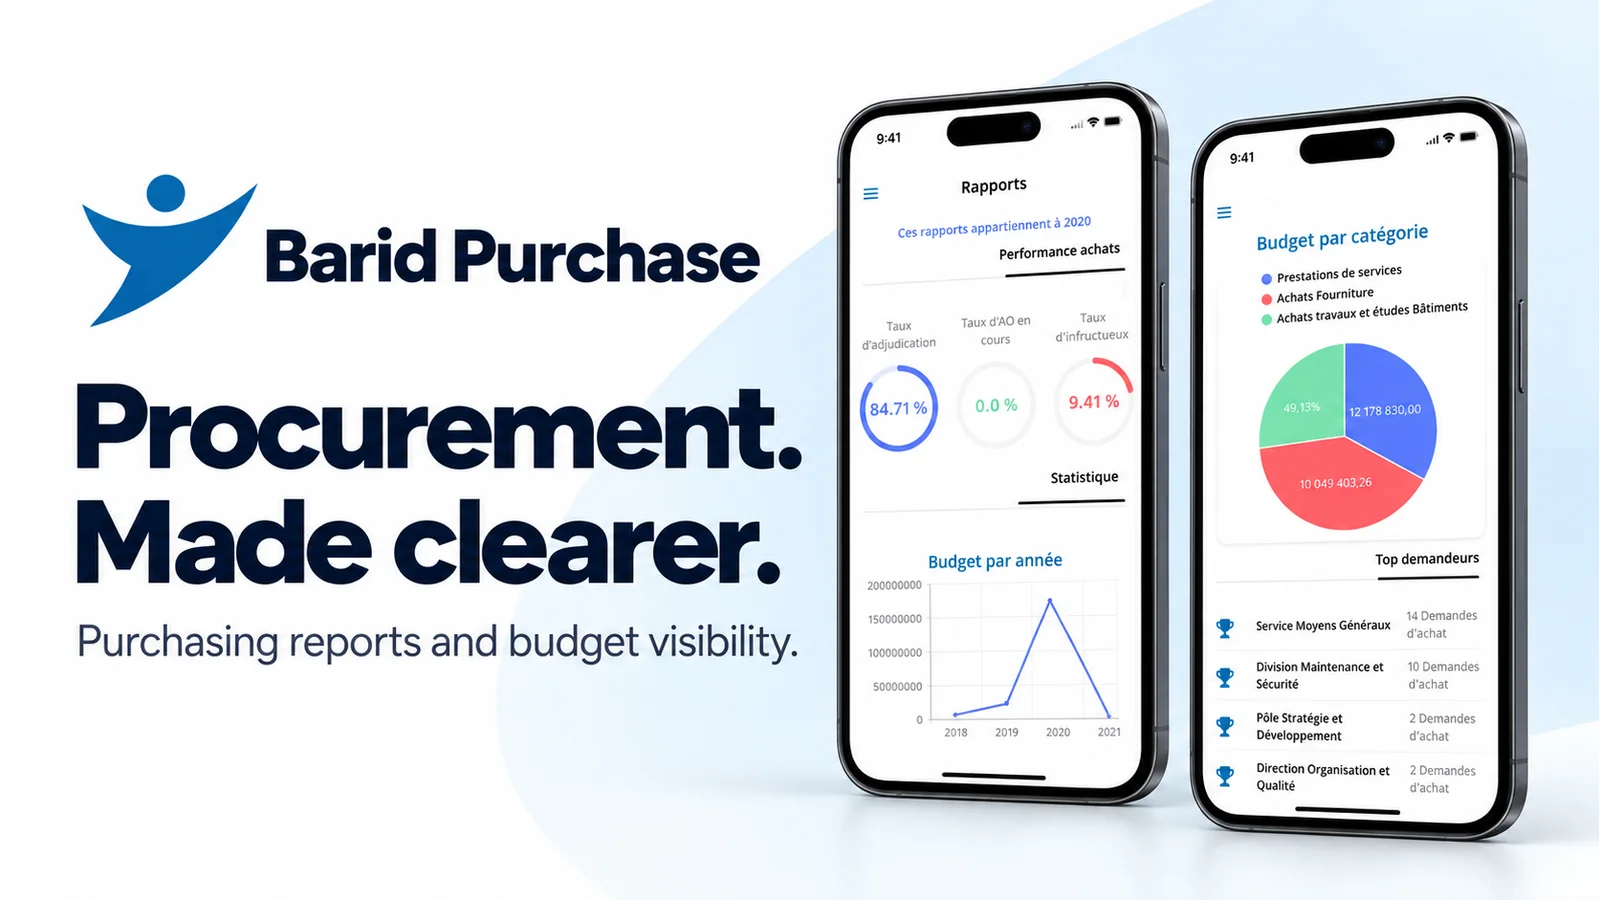
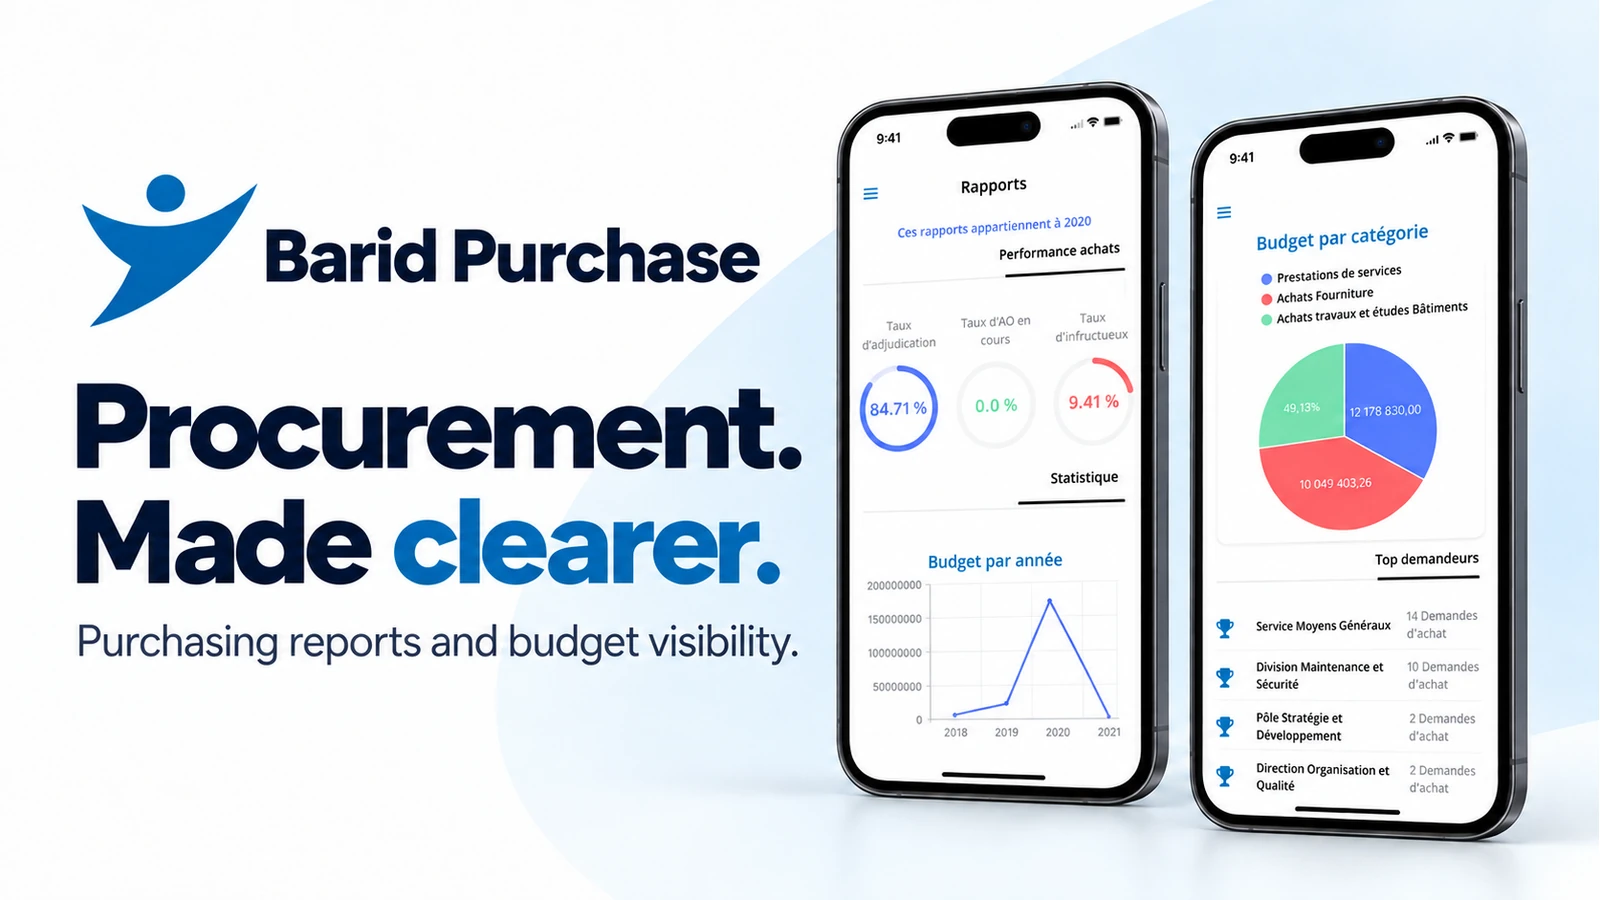
Add project availability and branded thumbnail accents

diff --git a/src/data/projects.ts b/src/data/projects.ts
@@ -12,10 +12,19 @@ import pennyflow from '../assets/thumbnails/pennyflow-thumbnail.webp';
 import isophro from '../assets/thumbnails/isophro-thumbnail.webp';
 import baridPurchase from '../assets/thumbnails/barid-purchase-thumbnail.webp';
 
+export type ProjectStatus = 'active' | 'discontinued';
+
+const activeFirst = <T extends { status: ProjectStatus }>(items: T[]): T[] =>
+  items.toSorted(
+    (a, b) =>
+      Number(a.status === 'discontinued') - Number(b.status === 'discontinued'),
+  );
+
 export interface Project {
   slug: string;
   name: string;
   category: 'client' | 'own';
+  status: ProjectStatus;
   image: ImageMetadata;
   imageAlt?: Localized<string>;
   visual: 'montage' | 'screen' | 'thumbnail';
@@ -31,10 +40,11 @@ export interface Project {
   }>;
 }
 
-export const projects: Project[] = [
+export const projects = activeFirst<Project>([
   {
     slug: '433-football',
     name: '433 Football',
+    status: 'active',
     category: 'client',
     image: football,
     imageAlt: {
@@ -100,6 +110,7 @@ export const projects: Project[] = [
   {
     slug: 'ignite-tournaments',
     name: 'Ignite Tournaments',
+    status: 'active',
     category: 'client',
     image: ignite,
     imageAlt: {
@@ -156,6 +167,7 @@ export const projects: Project[] = [
   {
     slug: 'receipto',
     name: 'Receipto',
+    status: 'active',
     category: 'own',
     image: receipto,
     imageAlt: {
@@ -212,6 +224,7 @@ export const projects: Project[] = [
   {
     slug: 'fielduro',
     name: 'Fielduro',
+    status: 'active',
     category: 'own',
     image: fielduro,
     imageAlt: {
@@ -268,6 +281,7 @@ export const projects: Project[] = [
   {
     slug: 'flura',
     name: 'Flura',
+    status: 'active',
     category: 'own',
     image: flura,
     imageAlt: {
@@ -324,6 +338,7 @@ export const projects: Project[] = [
   {
     slug: 'finflo',
     name: 'FinFlo',
+    status: 'active',
     category: 'own',
     image: finflo,
     imageAlt: {
@@ -377,11 +392,21 @@ export const projects: Project[] = [
       },
     },
   },
-];
+]);
 
-export const earlierWork = [
+interface EarlierProject {
+  name: string;
+  status: ProjectStatus;
+  tags: string;
+  image: ImageMetadata;
+  imageAlt: Localized<string>;
+  summary: Localized<string>;
+}
+
+export const earlierWork = activeFirst<EarlierProject>([
   {
     name: 'Indiscutido',
+    status: 'discontinued',
     tags: 'Flutter · Supabase',
     image: indiscutido,
     imageAlt: {
@@ -397,6 +422,7 @@ export const earlierWork = [
   },
   {
     name: 'GYMERZ',
+    status: 'active',
     tags: 'Flutter · .NET',
     image: gymerz,
     imageAlt: {
@@ -412,6 +438,7 @@ export const earlierWork = [
   },
   {
     name: 'PennyFlow',
+    status: 'discontinued',
     tags: 'SwiftUI · CoreData',
     image: pennyflow,
     imageAlt: {
@@ -427,6 +454,7 @@ export const earlierWork = [
   },
   {
     name: 'iSophro',
+    status: 'active',
     tags: 'Flutter · Firebase',
     image: isophro,
     imageAlt: {
@@ -442,6 +470,7 @@ export const earlierWork = [
   },
   {
     name: 'Barid Purchase',
+    status: 'discontinued',
     tags: 'Flutter · Laravel',
     image: baridPurchase,
     imageAlt: {
@@ -455,4 +484,4 @@ export const earlierWork = [
       es: 'Gestión de compras desde el móvil para Poste Maroc.',
     },
   },
-];
+]);

diff --git a/src/styles/global.css b/src/styles/global.css
@@ -7,6 +7,7 @@
   --muted: #63716f;
   --accent: #087e94;
   --brand: #23b6d1;
+  --status-active: #267049;
   --line: #dfe5df;
   --soft: #eff3ed;
   --panel: #fffefa;
@@ -24,6 +25,7 @@ html[data-theme='dark'] {
   --line: #3c494c;
   --soft: #212c2e;
   --panel: #263033;
+  --status-active: #85ceaa;
 }
 *,
 *::before,
@@ -733,6 +735,32 @@ summary::-webkit-details-marker {
   color: var(--muted);
   white-space: nowrap;
 }
+.project-labels {
+  display: flex;
+  align-items: center;
+  flex-wrap: wrap;
+  gap: 8px 12px;
+}
+.project-status {
+  display: inline-flex;
+  align-items: center;
+  gap: 7px;
+  color: var(--muted);
+  font-size: var(--small);
+  font-weight: 500;
+  letter-spacing: normal;
+  line-height: 1.5;
+}
+.project-status.active {
+  color: var(--status-active);
+}
+.status-dot {
+  width: 6px;
+  height: 6px;
+  flex-shrink: 0;
+  border-radius: 50%;
+  background: currentColor;
+}
 .project-card > p {
   margin-top: 13px;
   color: var(--muted);
@@ -1057,7 +1085,15 @@ summary::-webkit-details-marker {
   padding-block: 24px;
   list-style: none;
 }
-.archive-list summary > span:first-child {
+.archive-title {
+  display: flex;
+  align-items: center;
+  flex-wrap: wrap;
+  flex: 1;
+  min-width: 0;
+  gap: 8px 18px;
+}
+.archive-name {
   font-size: 1.375rem;
   font-weight: 550;
   letter-spacing: -0.025em;

diff --git a/src/data/copy.ts b/src/data/copy.ts
@@ -40,6 +40,9 @@ export const copy = {
       visit: 'Visit the product',
       back: 'All projects',
       role: 'My role',
+      status: 'Project status',
+      active: 'Active',
+      discontinued: 'Discontinued by owner',
       focus: 'Engineering focus',
       context: 'The product',
       contribution: 'What I worked on',
@@ -238,6 +241,9 @@ export const copy = {
       visit: 'Voir le produit',
       back: 'Tous les projets',
       role: 'Mon rôle',
+      status: 'Statut du projet',
+      active: 'Actif',
+      discontinued: 'Arrêté par le propriétaire',
       focus: 'Approche technique',
       context: 'Le produit',
       contribution: 'Ma contribution',
@@ -437,6 +443,9 @@ export const copy = {
       visit: 'Visitar el producto',
       back: 'Todos los proyectos',
       role: 'Mi papel',
+      status: 'Estado del proyecto',
+      active: 'Activo',
+      discontinued: 'Descontinuado por el propietario',
       focus: 'Enfoque técnico',
       context: 'El producto',
       contribution: 'Mi contribución',

diff --git a/docs/SOURCES.md b/docs/SOURCES.md
@@ -62,7 +62,7 @@ The current CV supplies `amine@amineboularbah.com` as its contact address. The w
 
 ## Product thumbnails, September 28, 2026
 
-Amine supplied the Fielduro landscape composition and authorized its use on both websites. Its original composition, type, and device imagery are retained. Receipto, Flura, and FinFlo thumbnails were created with the built-in image-generation tool using the official icons and published product screens as references. They are promotional compositions, not fresh app screenshots.
+Amine supplied the Fielduro landscape composition and authorized its use on both websites. The initial export retained its original composition, type, and device imagery; the brand-accent revision below supersedes that export. Receipto, Flura, and FinFlo thumbnails were created with the built-in image-generation tool using the official icons and published product screens as references. They are promotional compositions, not fresh app screenshots.
 
 - Fielduro: user-supplied `ChatGPT Image Sep 28, 2026, 01_29_56 PM.png`.
 - Receipto: logo from [receipto.app](https://receipto.app/receipto-logo.png) and the previously approved official press-kit receipt-library screen. Copy retains “smart scans”.
@@ -86,3 +86,13 @@ Amine then requested matching generated thumbnails for every remaining project, 
 The built-in image-generation tool produced the compositions in the same light visual style as the approved product set. Interfaces are illustrative renderings based on the historic references, not new screenshots or evidence that archived apps are currently available. No audience, financial, performance, or medical claims are added to the artwork. Original source files remain at their legacy URLs.
 
 The additional projects belong to Amine's personal portfolio; they are not added to the AppWrapp-owned product list. New WebP masters live under `src/assets/thumbnails/`, with responsive Astro image variants and English, French, and Spanish alternative text. Full PNG masters, reference files, prompts, and export dimensions are saved in the workspace’s `deliverables/portfolio-thumbnails-2026-09-28/` folder.
+
+## Brand-accent revision and resource library
+
+On 28 September 2026, Amine requested a branded color on one bold headline word in every project thumbnail, plus matching 1000 × 750 PNG exports for Upwork. The built-in image-generation tool edited the approved artwork; Fielduro was recomposed to match the shared visual style. FinFlo already had its green headline accent. The website uses 1600 × 900 WebP files, retaining responsive variants and full-frame display.
+
+The organized library is delivered in `Desktop/AppWrapp Resources`: `Personal Website` contains all eleven portfolio projects, `AppWrapp` contains only the four company products, and `Upwork` contains all eleven 4:3 covers. PNG masters, reference artwork, prompts, dimensions, and original Desktop files are preserved separately. These remain promotional renderings based on supplied references, not pixel-exact app screenshots.
+
+### Project availability
+
+Amine confirmed that Indiscutido, PennyFlow, and Barid Purchase were discontinued by their owners, while all other listed projects are active and available online. These are owner-supplied status declarations, not an independent availability audit. A shared status component provides English, French, and Spanish labels on project cards, detail pages, and earlier-work entries. Stable status sorting keeps discontinued entries after active entries in each collection, preserving the requested order among active projects. The three discontinued projects are the final entries on the portfolio list.
